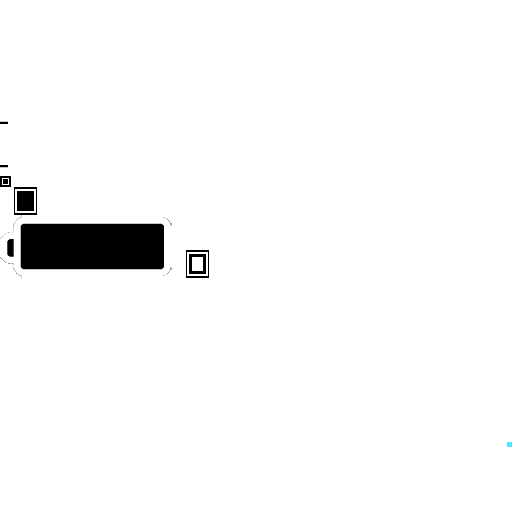
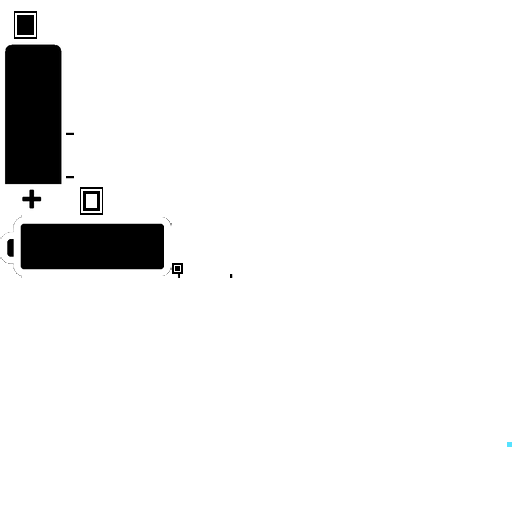
fixed corner bug

Changed region(s): [[0.0, 0.0, 0.125, 0.4375], [0.3125, 0.4688, 0.4062, 0.5625], [0.1562, 0.3438, 0.2188, 0.4375]]

diff --git a/core/src/main/java/com/monstrous/getout/GUI.java b/core/src/main/java/com/monstrous/getout/GUI.java
@@ -26,6 +26,7 @@ public class GUI implements Disposable {
     private Texture[] textures;
     private Table messageTable;
     private ProgressBar battery;
+    private ProgressBar health;
 
     public GUI(Main game, World world) {
         Gdx.app.log("GUI constructor", "");
@@ -59,16 +60,12 @@ public class GUI implements Disposable {
 
         fpsLabel = new Label("", skin, labelType);
         screenTable.add(fpsLabel).left();
-
-        screenTable.bottom().left();
-
+        screenTable.top().left();
         stage.addActor(screenTable);
 
+        // element cards
         Table screenTable2 = new Table();
         screenTable2.setFillParent(true);
-
-
-
         for(int i = 0; i < 4; i++){
             Image card;
             if(world.foundCard[i])
@@ -77,7 +74,7 @@ public class GUI implements Disposable {
                 card = new Image(textures[0]);
             screenTable2.add(card);
         }
-        screenTable2.bottom().right();
+        screenTable2.bottom();
         screenTable2.pack();
 
         stage.addActor(screenTable2);
@@ -86,14 +83,25 @@ public class GUI implements Disposable {
         Table screenTable3 = new Table();
         screenTable3.setFillParent(true);
         battery = new ProgressBar(0,100, 10, false, skin, "power");
-        screenTable3.add(battery).bottom().expand();
+        screenTable3.add(battery).bottom().right().expand();
         screenTable3.pack();
-
         stage.addActor(screenTable3);
+
+        // health indicator
+        Table screenTable4 = new Table();
+        screenTable4.setFillParent(true);
+        health = new ProgressBar(0,100, 10, true, skin, "health");
+        screenTable4.add(health).bottom().left().expand();
+        screenTable4.pack();
+        stage.addActor(screenTable4);
 
     }
 
     public void showMessage( String text ){
+        showMessage(text, 1f);
+    }
+
+    public void showMessage( String text, float duration ){
         messageTable.clear();       // any old message will be overwritten
         messageTable.setFillParent(true);
 
@@ -104,7 +112,7 @@ public class GUI implements Disposable {
         messageTable.pack();
 
         messageTable.setColor(1,1,1,0);       // set alpha to zero
-        messageTable.addAction(sequence(fadeIn(2f), delay(1f), fadeOut(1f), removeActor()));           // fade in .. fade out, then remove this actor
+        messageTable.addAction(sequence(fadeIn(2f), delay(duration), fadeOut(1f), removeActor()));           // fade in .. fade out, then remove this actor
 
         stage.addActor(messageTable);
     }
@@ -117,6 +125,7 @@ public class GUI implements Disposable {
         else
             fpsLabel.setText("");
         battery.setValue(world.batteryLevel);
+        health.setValue(world.health);
     }
 
     public void render(float deltaTime) {

diff --git a/core/src/main/java/com/monstrous/getout/input/CameraController.java b/core/src/main/java/com/monstrous/getout/input/CameraController.java
@@ -6,6 +6,7 @@ import com.badlogic.gdx.audio.Sound;
 import com.badlogic.gdx.graphics.PerspectiveCamera;
 import com.badlogic.gdx.math.MathUtils;
 import com.badlogic.gdx.math.Vector3;
+import com.badlogic.gdx.utils.Array;
 import com.badlogic.gdx.utils.IntIntMap;
 import com.monstrous.getout.Assets;
 import com.monstrous.getout.Settings;
@@ -28,6 +29,8 @@ public class CameraController extends InputAdapter {
     private float bobAngle;
     private Sound walkSound;
     private Sound runSound;
+    private World world;
+    private Array<Collider> collisions;
 
     public CameraController(Assets assets, PerspectiveCamera camera) {
         this.camera = camera;
@@ -37,6 +40,7 @@ public class CameraController extends InputAdapter {
 
 
     public void update(World world, float deltaTime) {
+        this.world = world;
         if(world.health < 0)
             return;         // player is dead, controls are blocked
 
@@ -94,11 +98,13 @@ public class CameraController extends InputAdapter {
         newPos.set(velocity).scl(deltaTime).add(camera.position);
 
         if(!Settings.noClip) {
-            Collider collider = world.canReach(newPos);
-            if (collider != null) {
-                //newPos.set(camera.position);// todo
-                Gdx.app.log("collision", "");
-                collider.collisionResponse(camera.position, 0.5f, velocity, deltaTime); // modifies velocity
+            collisions = world.canReach(newPos);
+            if (collisions.size > 0) {
+                for(Collider collider : collisions) {
+                    //newPos.set(camera.position);// todo
+                    Gdx.app.log("collision", "");
+                    collider.collisionResponse(camera.position, 0.5f, velocity, deltaTime); // modifies velocity
+                }
                 newPos.set(velocity).scl(deltaTime).add(camera.position);
             }
         }
@@ -153,6 +159,8 @@ public class CameraController extends InputAdapter {
 
     @Override
     public boolean mouseMoved(int screenX, int screenY) {
+        if(world.health <= 0)
+            return true;
         float deltaX = -Gdx.input.getDeltaX() * Settings.degreesPerPixel;
         float deltaY = -Gdx.input.getDeltaY() * Settings.degreesPerPixel;
         if(Math.abs(deltaX) > 20 )  // ignore startup/resize glitches

diff --git a/core/src/main/java/com/monstrous/getout/World.java b/core/src/main/java/com/monstrous/getout/World.java
@@ -34,6 +34,7 @@ public class World implements Disposable {
     public float health;
     public float batteryLevel;  // 0..100
     public float deathTimer;
+    private Array<Collider>collisions;
 
     public World() {
         scenes = new Array();
@@ -41,6 +42,7 @@ public class World implements Disposable {
 
         colliders = new Colliders();
         patrolBots = new PatrolBots();
+        collisions = new Array<>();
         reload();
     }
 
@@ -176,24 +178,25 @@ public class World implements Disposable {
 
 
     // returns null if you can go to the desired position
-    public Collider canReach( Vector3 position ) {
+    public Array<Collider> canReach( Vector3 position ) {
 
-        Collider collider = colliders.collisionTest(position, PLAYER_RADIUS);
-        if (collider != null) {
-            Gdx.app.log("canReach: collision", collider.id);
-            if(collider.type == Collider.Type.PICKUP) {
-                pickUp(collider);
-                return null;
+        colliders.collisionTest(position, PLAYER_RADIUS, collisions);
+        if (collisions.size > 0) {
+            for(Collider collider : collisions) {
+                Gdx.app.log("canReach: collision", collider.id);
+                if (collider.type == Collider.Type.PICKUP) {
+                    pickUp(collider);
+                    collisions.removeValue(collider, true);
+                }
+                if (collider.type == Collider.Type.OPEN_DOOR) {
+                    exitLevel(collider);
+                    collisions.removeValue(collider, true);
+                }
+                if (collider.type == Collider.Type.CLOSED_DOOR)
+                    message = "You lack the elements to open the door.";
             }
-            if(collider.type == Collider.Type.OPEN_DOOR) {
-                exitLevel(collider);
-                return null;
-            }
-            if(collider.type == Collider.Type.CLOSED_DOOR)
-                message = "You lack the elements to open the door.";
-            return collider;
         }
-        return null;
+        return collisions;
     }
 
     private void pickUp(Collider collider){

diff --git a/core/src/main/java/com/monstrous/getout/input/Bullet.java b/core/src/main/java/com/monstrous/getout/input/Bullet.java
@@ -5,6 +5,7 @@ import com.badlogic.gdx.audio.Sound;
 import com.badlogic.gdx.graphics.Camera;
 import com.badlogic.gdx.math.Matrix4;
 import com.badlogic.gdx.math.Vector3;
+import com.badlogic.gdx.utils.Array;
 import com.badlogic.gdx.utils.Disposable;
 import com.monstrous.getout.Settings;
 import com.monstrous.getout.World;
@@ -22,12 +23,14 @@ public class Bullet implements Disposable {
     private float lifeTime;
     private Vector3 vec = new Vector3();
     private Vector3 pos = new Vector3();
+    private Array<Collider> collisions;
 
     public Bullet(Scene scene) {
         this.scene = scene;
         soundId = Main.assets.BUZZ.loop();
         isDead = false;
         lifeTime = 0;
+        collisions = new Array<>();
     }
 
     // returns true if bullet disappears
@@ -50,8 +53,8 @@ public class Bullet implements Disposable {
             }
 
             // check for wall collisions
-            Collider collider = world.colliders.collisionTest(pos, BULLET_RADIUS);
-            if (collider != null) {
+            world.colliders.collisionTest(pos, BULLET_RADIUS, collisions);
+            if (collisions.size > 0) {
                 //Gdx.app.log("bullet collision", collider.id);
                 // todo thud sound
                 return true; // remove bullet

diff --git a/core/src/main/java/com/monstrous/getout/screens/GameScreen.java b/core/src/main/java/com/monstrous/getout/screens/GameScreen.java
@@ -66,7 +66,7 @@ public class GameScreen extends StdScreenAdapter {
             game.setScreen(new GameScreen(game));
             return;
         }
-        if(Gdx.input.isKeyJustPressed(KeyBinding.TORCH.getKeyCode())){
+        if(world.health > 0 && Gdx.input.isKeyJustPressed(KeyBinding.TORCH.getKeyCode())){
             Settings.torchOn = !Settings.torchOn;
         }
 
@@ -83,7 +83,10 @@ public class GameScreen extends StdScreenAdapter {
         }
 
         if(world.message != null){
-            gui.showMessage(world.message);
+            if(world.health <= 0)
+                gui.showMessage(world.message,9999f);
+            else
+                gui.showMessage(world.message);
             world.message = null;
         }
         gui.render(deltaTime);

diff --git a/core/src/main/java/com/monstrous/getout/Settings.java b/core/src/main/java/com/monstrous/getout/Settings.java
@@ -8,7 +8,7 @@ public class Settings {
 
     public static String        title = "Get The Heck Out";
 
-    public static boolean       release = false;
+    public static boolean       release = true;
 
     public static float         ambientLightLevel = 0.02f; //0.03f;
     public static float         directionalLightLevel = 0.0f;
@@ -58,7 +58,7 @@ public class Settings {
     static public boolean       playMusic = release;
 
     static public boolean       noBots = false;
-    static public boolean       playerIsInvisible = false;
+    static public boolean       playerIsInvisible = true;
 
     static public boolean       torchOn = true;
 

diff --git a/core/src/main/java/com/monstrous/getout/collision/Colliders.java b/core/src/main/java/com/monstrous/getout/collision/Colliders.java
@@ -54,14 +54,14 @@ public class Colliders implements Disposable {
     }
 
     // returns null if no collision, otherwise the node id
-    public Collider collisionTest(Vector3 position, float radius) {
+    public void collisionTest(Vector3 position, float radius, Array<Collider> collisions) {
 
+        collisions.clear();
         // test collision of player with a colliders
         for (Collider collider : colliders) {
             if(collider.intersects(position, radius))
-                return collider;
+                collisions.add(collider);
         }
-        return null;
     }
 
 

diff --git a/core/src/main/java/com/monstrous/getout/input/PatrolBot.java b/core/src/main/java/com/monstrous/getout/input/PatrolBot.java
@@ -99,7 +99,7 @@ public class PatrolBot implements Disposable {
 
 
     private void checkForPlayer(Vector3 playerPosition, float deltaTime){
-        if(Settings.playerIsInvisible)
+        if(Settings.playerIsInvisible || world.health < 0)
             return;
 
         boolean canSee = false;

diff --git a/README.md b/README.md
@@ -10,9 +10,10 @@ A [libGDX](https://libgdx.com/) project generated with [gdx-liftoff](https://git
 
 
 to do:
-- smaller text button style for key menu
-- collision with inside corner
-- robot direction in path following
+- !bug: collision with inside corner
+- bug: robot direction in path following
+- - randomized spawn points
+- - start screen
 
 
 Done:
